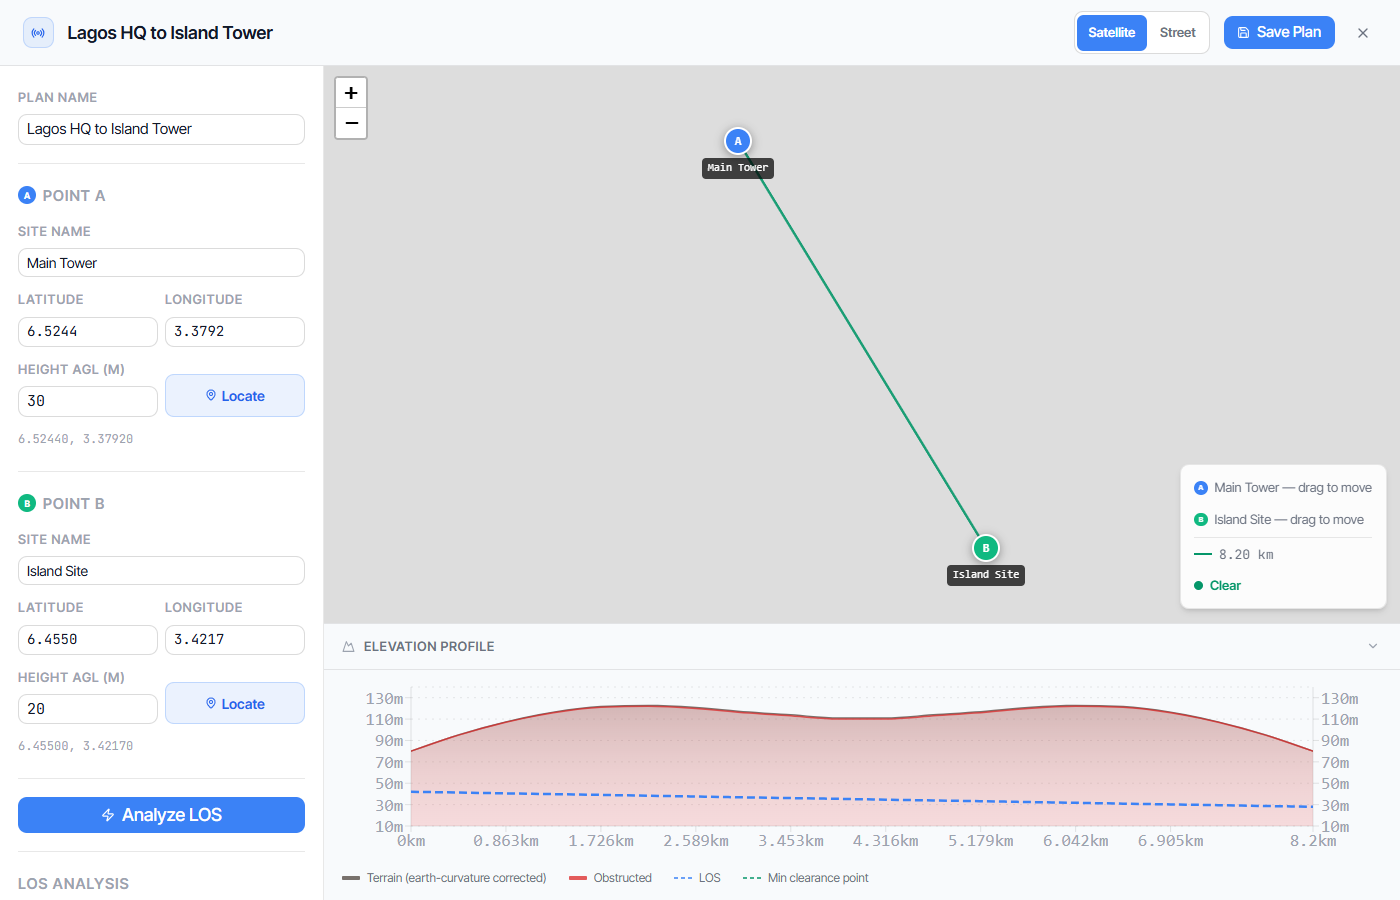
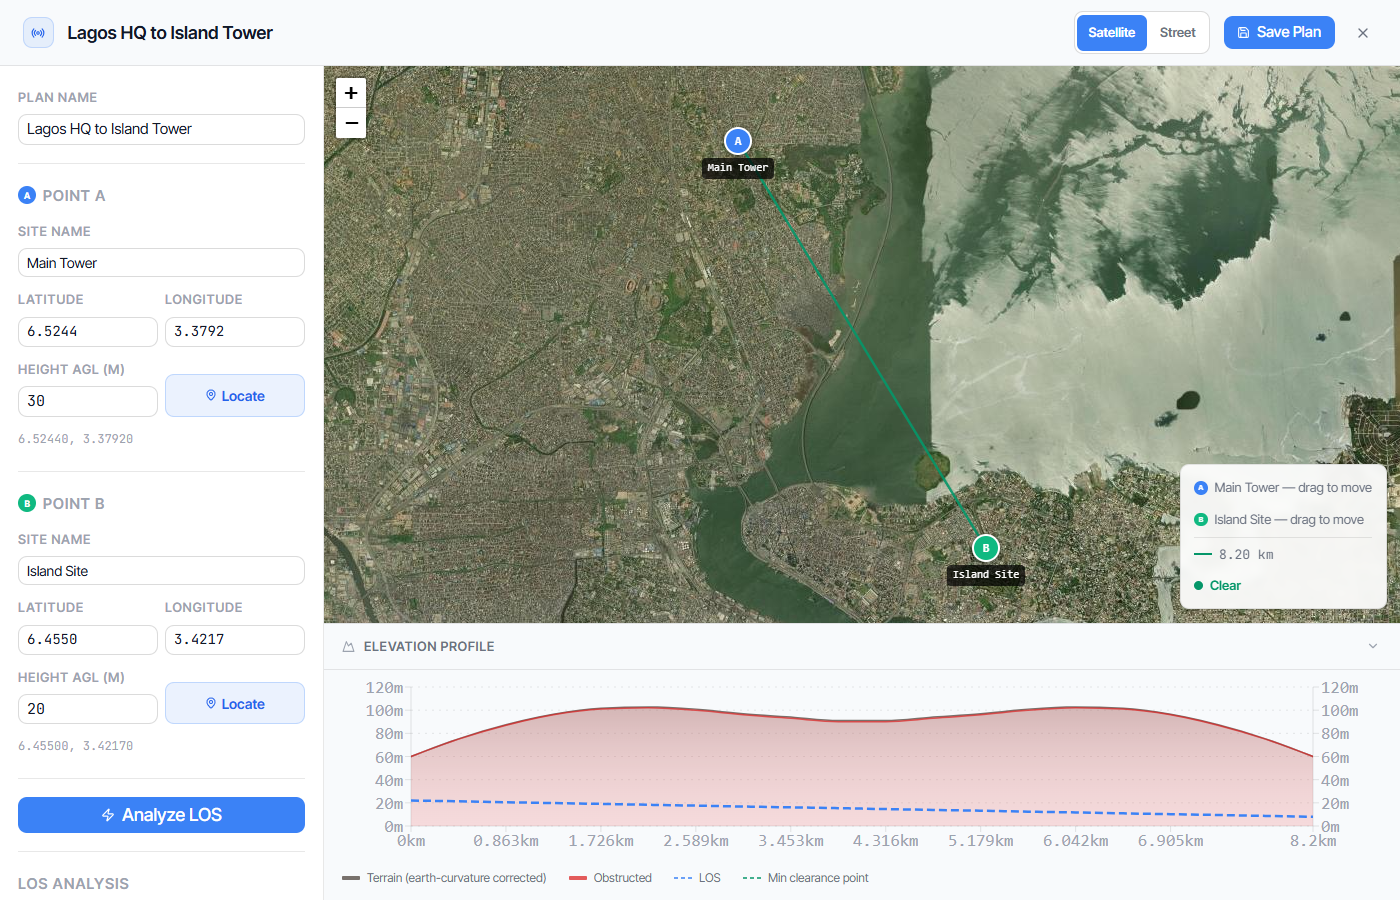
Link Planner 31

diff --git a/frontend/src/components/LinkPlanModal.jsx b/frontend/src/components/LinkPlanModal.jsx
@@ -486,15 +486,17 @@ export default function LinkPlanModal({ onClose, onSave, initialPlan }) {
     handleClose()
   }, [results, planName, ptA, ptB, initialPlan, handleClose, onSave])
 
-  // Y-axis domain and ticks: 10 m spacing
-  let yDomain = ['auto', 'auto']
-  let yTicks  = undefined
+  // Y-axis domain and ticks: 10 m spacing, relative display (0 = lowest terrain on path)
+  let yDomain   = ['auto', 'auto']
+  let yTicks    = undefined
+  let yBaseline = 0   // ASL value that maps to 0 on the displayed axis
   if (results?.profile?.length) {
     const allY = results.profile.flatMap(p => [p.effectiveTerrain, p.los]).filter(v => v != null)
-    const lo = Math.floor((Math.min(...allY) - 10) / 10) * 10
-    const hi = Math.ceil((Math.max(...allY)  + 10) / 10) * 10
-    yDomain = [lo, hi]
-    yTicks  = Array.from({ length: Math.round((hi - lo) / 10) + 1 }, (_, i) => lo + i * 10)
+    const lo = Math.floor(Math.min(...allY) / 10) * 10
+    const hi = Math.ceil((Math.max(...allY) + 10) / 10) * 10
+    yBaseline = lo
+    yDomain   = [lo, hi]
+    yTicks    = Array.from({ length: Math.round((hi - lo) / 10) + 1 }, (_, i) => lo + i * 10)
   }
 
   const tileConf    = TILES[tile] ?? TILES.satellite
@@ -857,7 +859,7 @@ export default function LinkPlanModal({ onClose, onSave, initialPlan }) {
                           ticks={yTicks}
                           interval={1}
                           tick={{ fontSize: 11, fill: '#9ca3af', fontFamily: 'monospace' }}
-                          tickFormatter={v => `${v}m`}
+                          tickFormatter={v => `${v - yBaseline}m`}
                           stroke="rgba(0,0,0,0.10)"
                           width={38}
                         />
@@ -868,7 +870,7 @@ export default function LinkPlanModal({ onClose, onSave, initialPlan }) {
                           ticks={yTicks}
                           interval={1}
                           tick={{ fontSize: 11, fill: '#9ca3af', fontFamily: 'monospace' }}
-                          tickFormatter={v => `${v}m`}
+                          tickFormatter={v => `${v - yBaseline}m`}
                           stroke="rgba(0,0,0,0.10)"
                           width={38}
                         />
